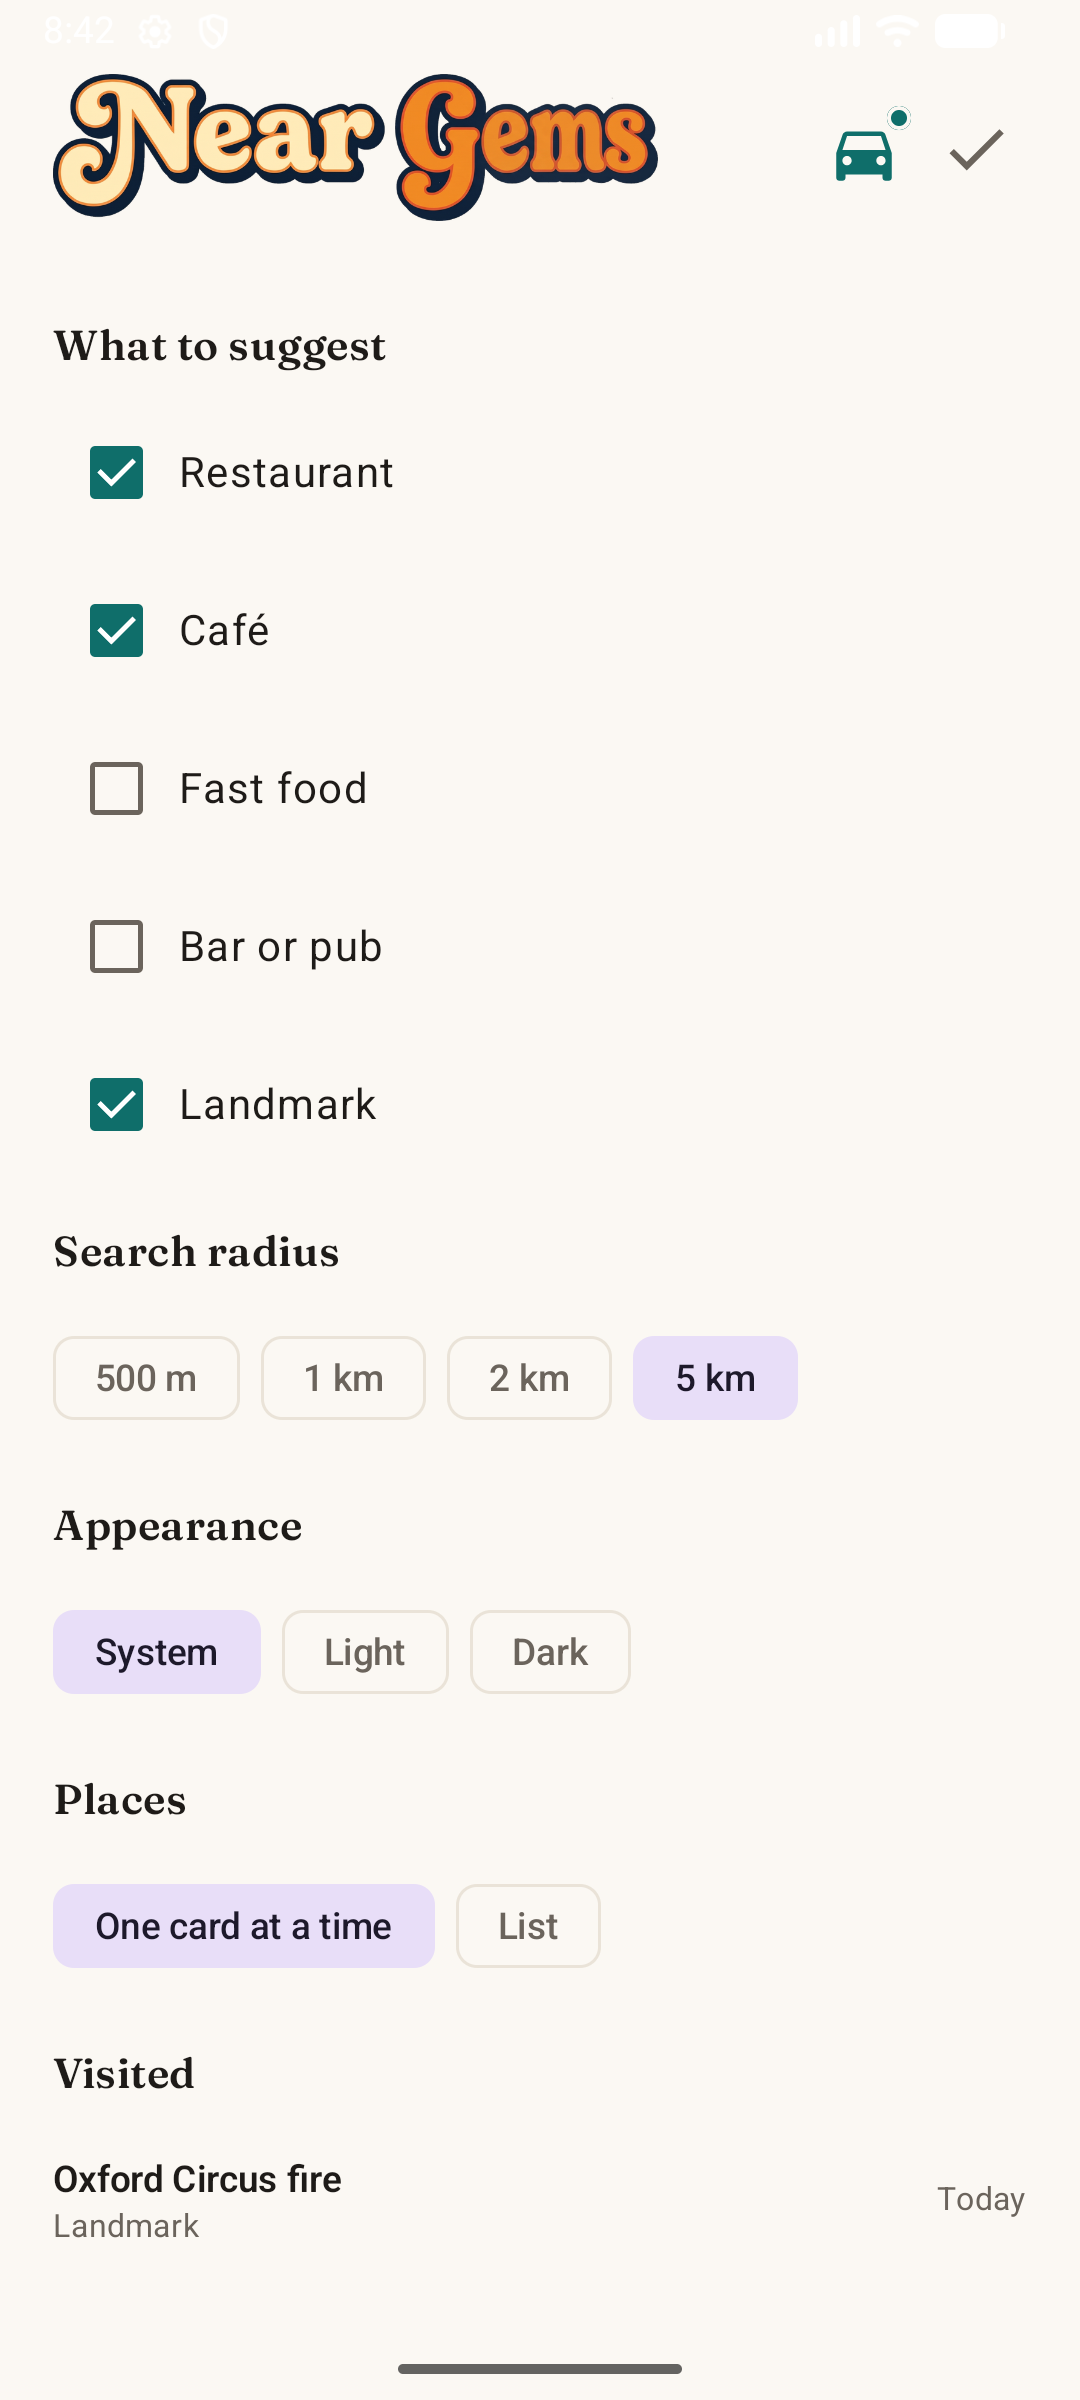
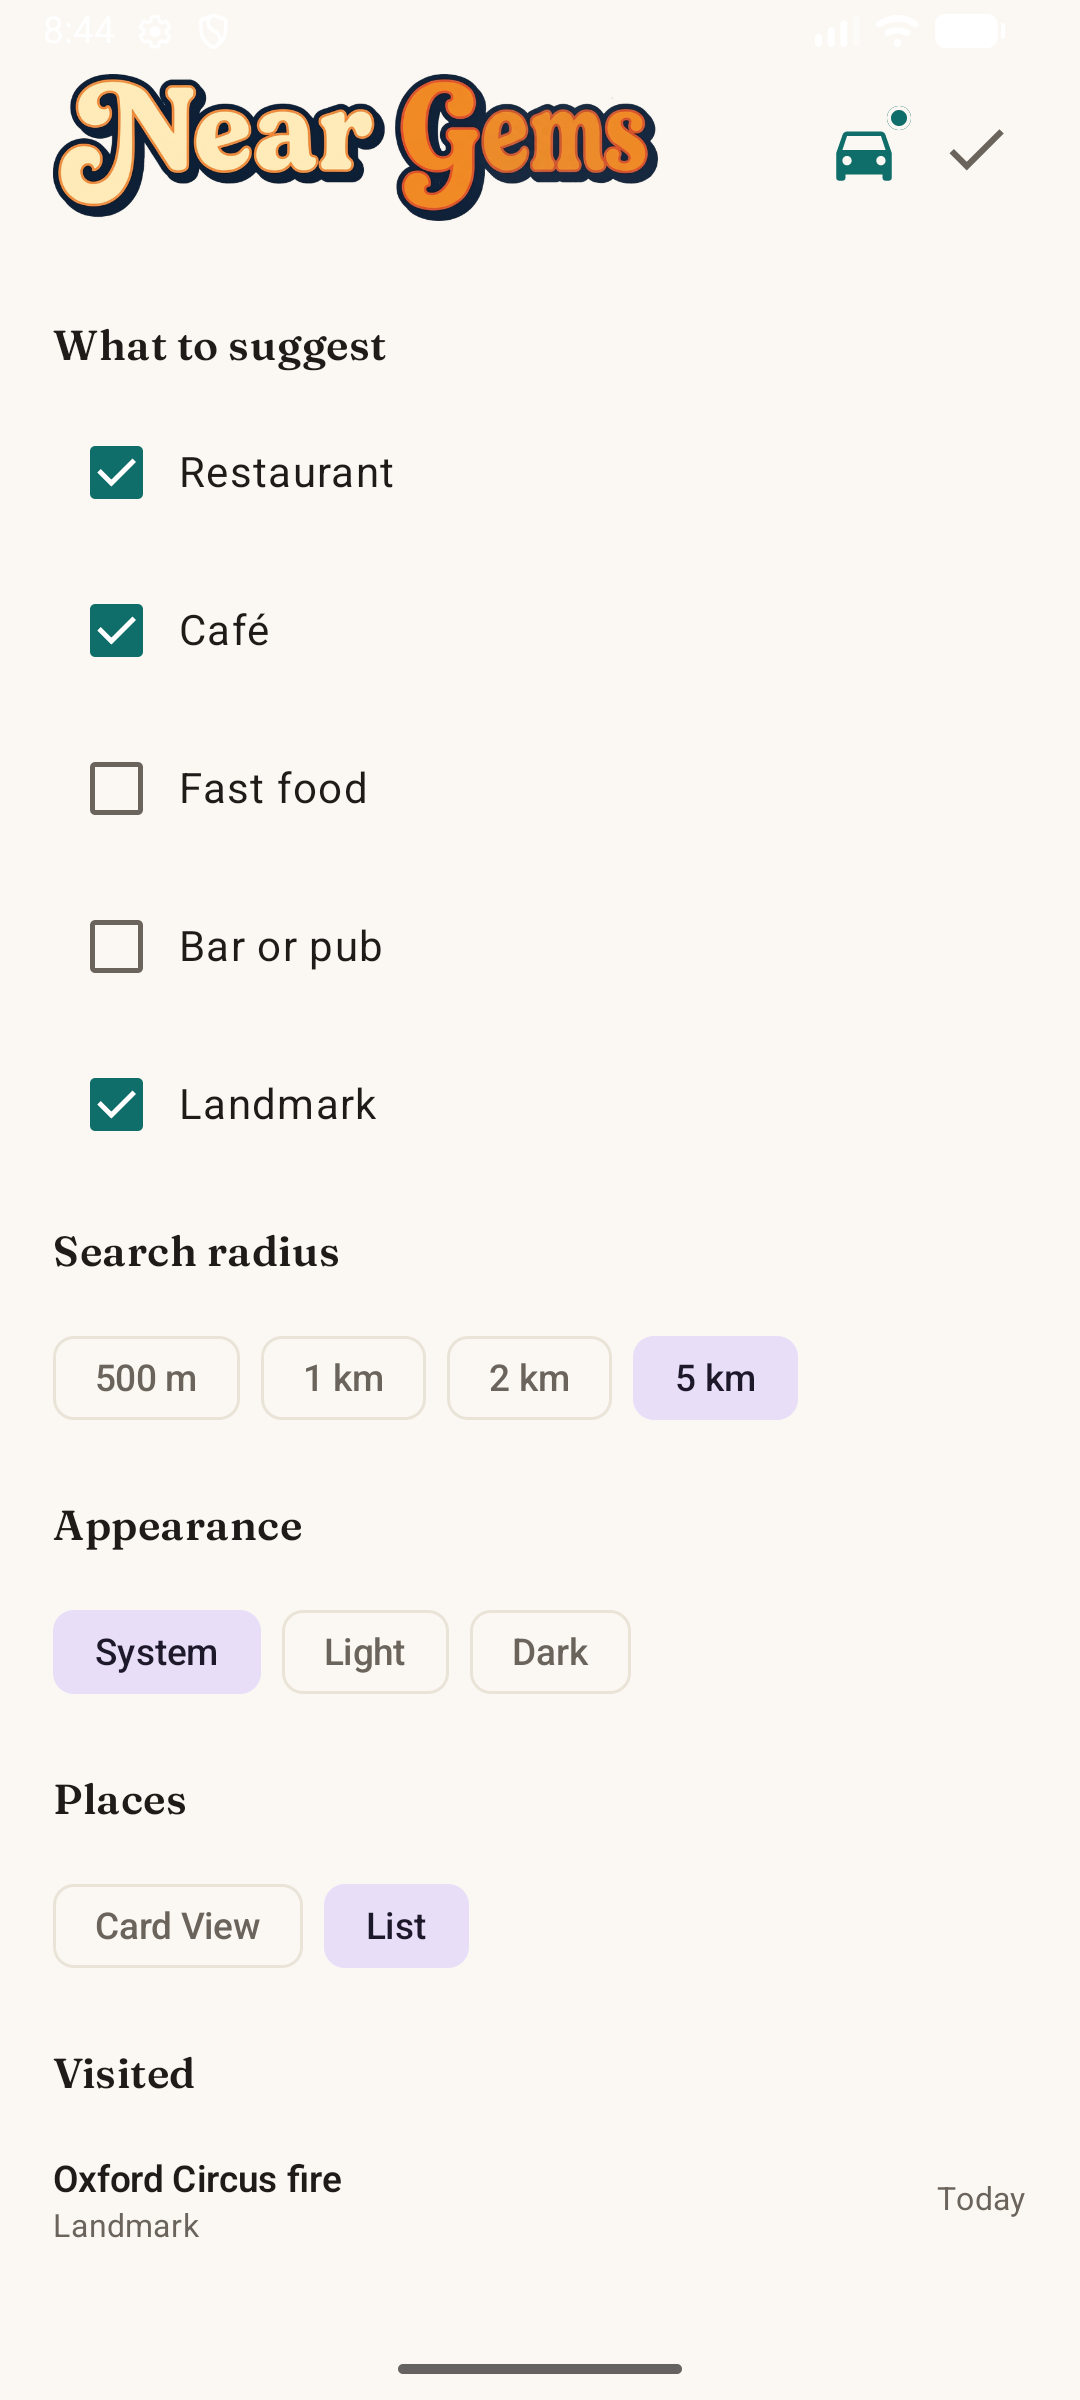
Stop recording visits for this release; rename the chip to Card View; keep the popup's Close button in view
Seeing a suggestion is not a visit, so visits are not recorded and the Visited section is
removed from Settings. The privacy policy and listing no longer mention visit history.
The full-text popup scrolls its text and keeps Close pinned at the bottom.

Changed region(s): [[0.0306, 0.7812, 0.5194, 0.8438]]

diff --git a/shared/src/commonMain/kotlin/com/neargems/ui/NearGemsApp.kt b/shared/src/commonMain/kotlin/com/neargems/ui/NearGemsApp.kt
@@ -1031,10 +1031,14 @@ private fun PlaceDetailDialog(poi: Poi, actions: Actions, onPhotoClick: () -> Un
                 .clip(shape)
                 .background(MaterialTheme.colorScheme.surface)
                 .border(1.dp, MaterialTheme.colorScheme.outlineVariant, shape)
-                .padding(20.dp)
-                .verticalScroll(rememberScrollState()),
+                .padding(20.dp),
             verticalArrangement = Arrangement.spacedBy(12.dp),
         ) {
+            // The text scrolls; Close stays pinned at the bottom so it is never cut off.
+            Column(
+                modifier = Modifier.weight(1f, fill = false).verticalScroll(rememberScrollState()),
+                verticalArrangement = Arrangement.spacedBy(12.dp),
+            ) {
             poi.photo?.let { photo -> PhotoBlock(photo, poi.name, 220.dp, actions, onPhotoClick = onPhotoClick) }
             Text(
                 poi.category.label.uppercase(),
@@ -1066,6 +1070,7 @@ private fun PlaceDetailDialog(poi: Poi, actions: Actions, onPhotoClick: () -> Un
                     color = MaterialTheme.colorScheme.primary,
                     modifier = Modifier.semantics { role = Role.Button }.clickable { actions.onOpenUrl(link) },
                 )
+            }
             }
             Button(
                 onClick = onDismiss,
@@ -1283,39 +1288,8 @@ private fun SettingsPanel(
                 FilterChip(
                     selected = settings.placeView == view,
                     onClick = { onSettings { it.copy(placeView = view) } },
-                    label = { Text(if (view == PlaceView.CARDS) "One card at a time" else "List") },
+                    label = { Text(if (view == PlaceView.CARDS) "Card View" else "List") },
                 )
-            }
-        }
-
-        SectionTitle("Visited")
-        if (visits.isEmpty()) {
-            Text(
-                "Places you get within 50 m of appear here. This history stays on this device.",
-                style = MaterialTheme.typography.bodySmall,
-                color = MaterialTheme.colorScheme.onSurfaceVariant,
-            )
-        } else {
-            visits.take(HISTORY_SHOWN).forEach { visit ->
-                Row(
-                    modifier = Modifier.fillMaxWidth().heightIn(min = 48.dp),
-                    verticalAlignment = Alignment.CenterVertically,
-                    horizontalArrangement = Arrangement.SpaceBetween,
-                ) {
-                    Column(modifier = Modifier.weight(1f).padding(end = 12.dp)) {
-                        Text(visit.name, style = MaterialTheme.typography.titleSmall, fontWeight = FontWeight.SemiBold)
-                        Text(
-                            visit.categoryLabel,
-                            style = MaterialTheme.typography.bodySmall,
-                            color = MaterialTheme.colorScheme.onSurfaceVariant,
-                        )
-                    }
-                    Text(
-                        visitedLabel(visit.atMillis, now),
-                        style = MaterialTheme.typography.bodySmall,
-                        color = MaterialTheme.colorScheme.onSurfaceVariant,
-                    )
-                }
             }
         }
 

diff --git a/shared/src/commonMain/kotlin/com/neargems/app/DriveContainer.kt b/shared/src/commonMain/kotlin/com/neargems/app/DriveContainer.kt
@@ -99,7 +99,8 @@ class DriveContainer(platform: PlatformServices) {
         ),
         location = location,
         narrator = platform.narrator,
-        visits = visitStore,
+        // Visits are not recorded in this release. Seeing a suggestion is not visiting a place.
+        visits = null,
     )
 
     val state: StateFlow<PoiState> = repository.state

diff --git a/docs/store/PRIVACY_POLICY.md b/docs/store/PRIVACY_POLICY.md
@@ -10,7 +10,7 @@ information, and what it does not do. The developer is Swaroop (gnanaswaroop@gma
 - Near Gems has no accounts, no sign-in, no ads, and no analytics or crash-reporting services.
 - Your location is used to find places near you. It is sent to the place-data services described
   below, and the developer never receives it.
-- Places you have visited, places you have seen, and your settings are stored only on your phone.
+- Places you have seen and your settings are stored only on your phone. Visits are not tracked.
 - Nothing is sold, and nothing is shared with advertisers.
 
 ## Location
@@ -49,11 +49,10 @@ the app's own storage on your phone, and clearing the app's data removes that ca
 
 Near Gems keeps the following on your phone only. None of it is uploaded.
 
-- **Visit history.** When you come within about 50 metres of a place, Near Gems remembers it.
 - **Seen places.** Each place is marked New or Seen. Seen places are kept in a small local database
   (SQLite), so the badges stay the same after you close the app.
 - **Dismissed places.** Places you pass with Next are hidden for 12 hours.
-- **Settings.** Categories, search distance, the one-card or list choice, theme, car options, and
+- **Settings.** Categories, search distance, the card or list choice, theme, car options, and
   any test location you set.
 
 Clearing the app's data or uninstalling the app removes all of this.

diff --git a/docs/store/LISTING.md b/docs/store/LISTING.md
@@ -21,7 +21,6 @@ or a landmark, with a short summary you can have read aloud.
 - New and Seen badges, so you can see what is new since you last looked. Kept only on your phone.
 - Change the search distance and new places appear as they are found.
 - Works in portrait and landscape.
-- A visit history, kept only on your phone.
 - Light, dark, or system theme.
 
 Places come from OpenStreetMap and Wikipedia. Near Gems does not show ads.
@@ -36,8 +35,8 @@ Places come from OpenStreetMap and Wikipedia. Near Gems does not show ads.
   find nearby places, and with OpenStreetMap for map tiles. Required: the app needs it to work.
   Also used in the background only when car watch is turned on (a notification shows while it
   runs). Not sold; the developer does not receive it.
-- **Visit history and New/Seen badges:** stored on the device only, in a local database. Not
-  collected by the developer.
+- **New/Seen badges:** stored on the device only, in a local database. Not collected by the
+  developer. Visits are not tracked in this release.
 - **Data sent to third parties:** the device's approximate position is sent to OpenStreetMap's
   Overpass API and Wikipedia to find places. Map tiles come from OpenStreetMap.
 - **Data encrypted in transit:** yes (HTTPS).
